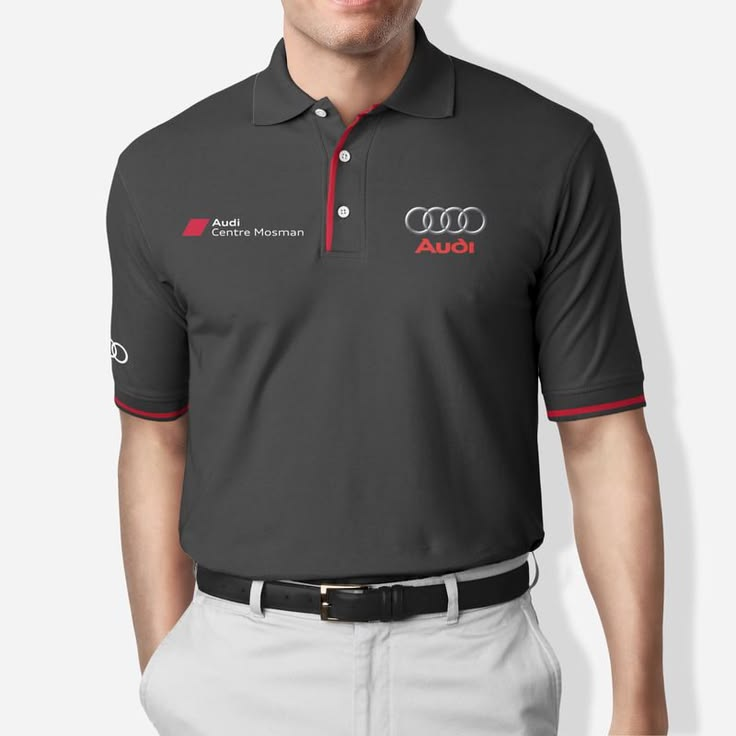
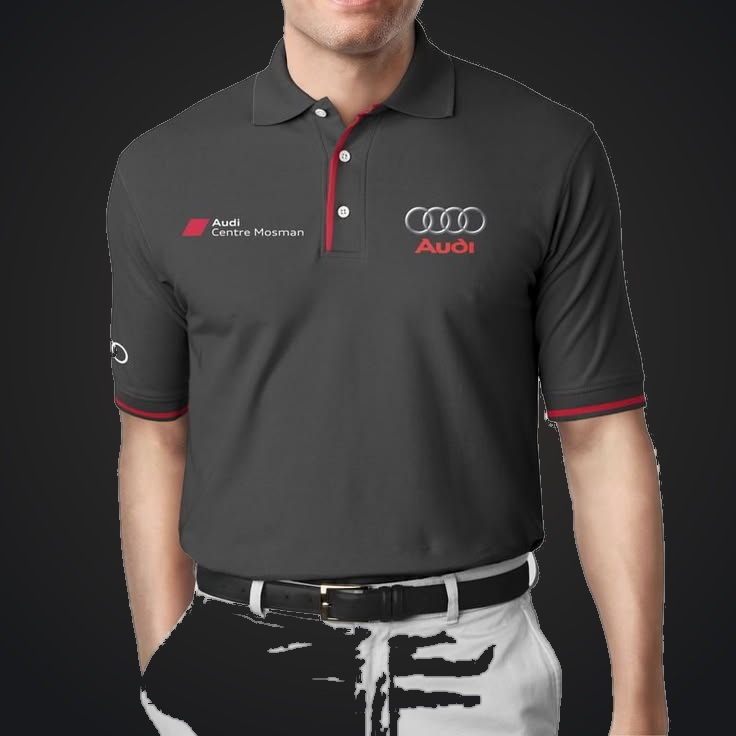
Fix Corporate Uniform gallery item: replace white studio bg with luxury dark studio backdrop and apply cover fit

diff --git a/assets/css/style.css b/assets/css/style.css
@@ -1125,12 +1125,23 @@ img {
 /* Column 3 (3 items: with Corporate Uniform at the last) */
 .gallery-item:nth-child(6) { grid-column: 3; grid-row: 1 / span 2; }
 .gallery-item:nth-child(7) { grid-column: 3; grid-row: 3 / span 2; }
-.gallery-item:nth-child(8) { grid-column: 3; grid-row: 5 / span 2; }
+.gallery-item:nth-child(8) {
+  grid-column: 3;
+  grid-row: 5 / span 2;
+  background: #18191c;
+}
+
+.gallery-item:nth-child(8) img {
+  object-fit: cover;
+  object-position: center top;
+}
 
 @media (min-width: 992px) {
   .gallery-item:nth-child(4) img,
-  .gallery-item:nth-child(5) img {
+  .gallery-item:nth-child(5) img,
+  .gallery-item:nth-child(8) img {
     object-fit: cover;
+    object-position: center top;
   }
 }
 
